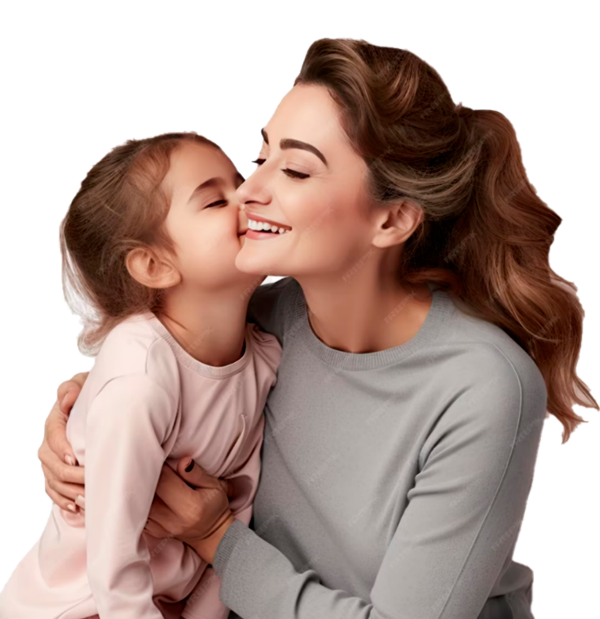
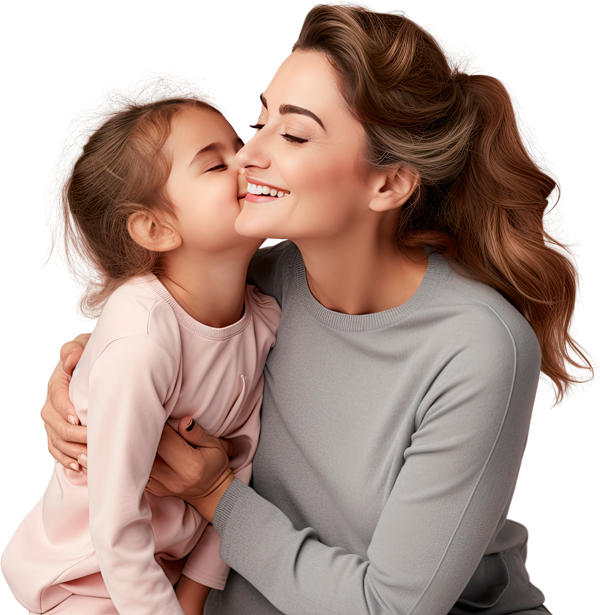
optimized images

diff --git a/src/components/ImgExperticeAreas.jsx b/src/components/ImgExperticeAreas.jsx
@@ -1,11 +1,14 @@
 import "../styles/ImgExperticeAreas.css";
-import imgExperticeFamily from "../assets/img-expertice-family.png";
+import imgExperticeFamilyMd from "../assets/familia-600.webp";
+import imgExperticeFamilySm from "../assets/familia-300.webp";
+import imgExperticeFamilyLg from "../assets/familia-900.webp";
 const ImgExperticeAreas = () => {
   return (
     <>
       <img
         className="img-expertice-area"
-        src={imgExperticeFamily}
+        src={imgExperticeFamilyMd}
+        srcSet={`${imgExperticeFamilySm} 300w, ${imgExperticeFamilyMd} 600w, ${imgExperticeFamilyMd}   900w, ${imgExperticeFamilyLg} 1200w`}
         alt="Familia: Padre, madre e hija abrazados"
       />
     </>

diff --git a/src/styles/ImgExperticeAreas.css b/src/styles/ImgExperticeAreas.css
@@ -2,4 +2,6 @@
   margin-bottom: 0 !important;
   display: block;
   width: 100%;
+  -webkit-transform: scaleX(-1);
+  transform: scaleX(-1);
 }
